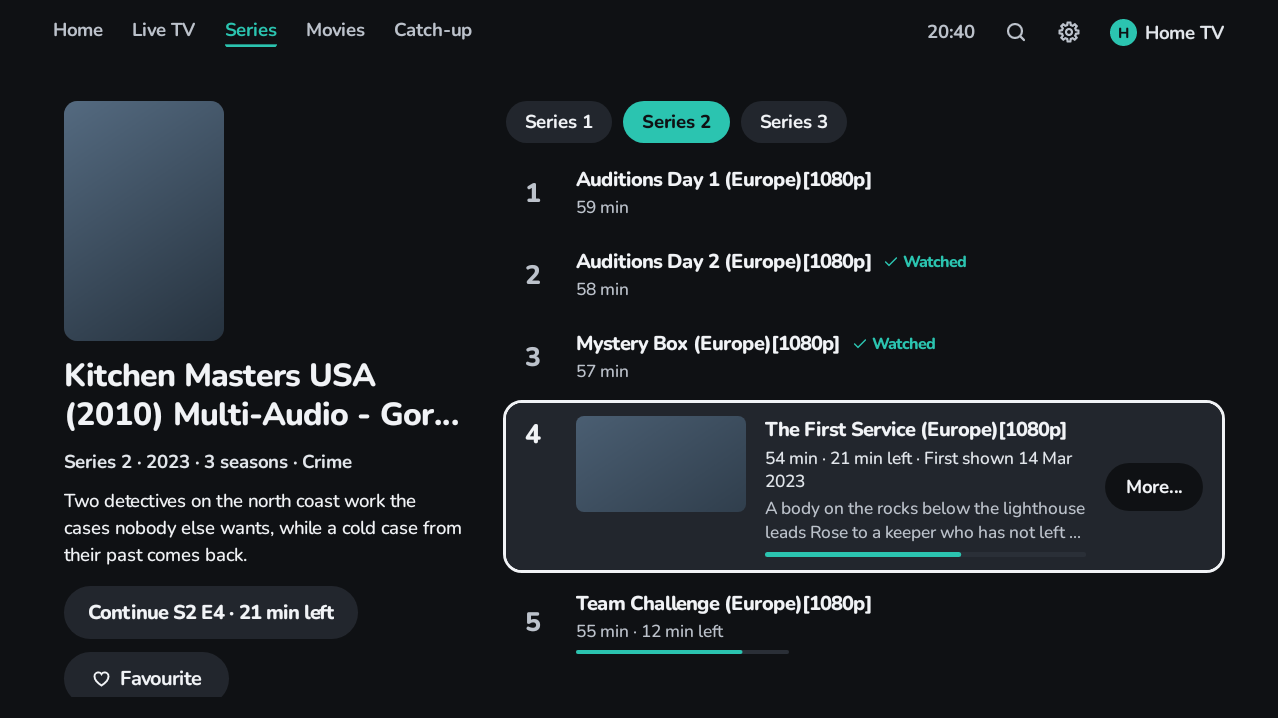
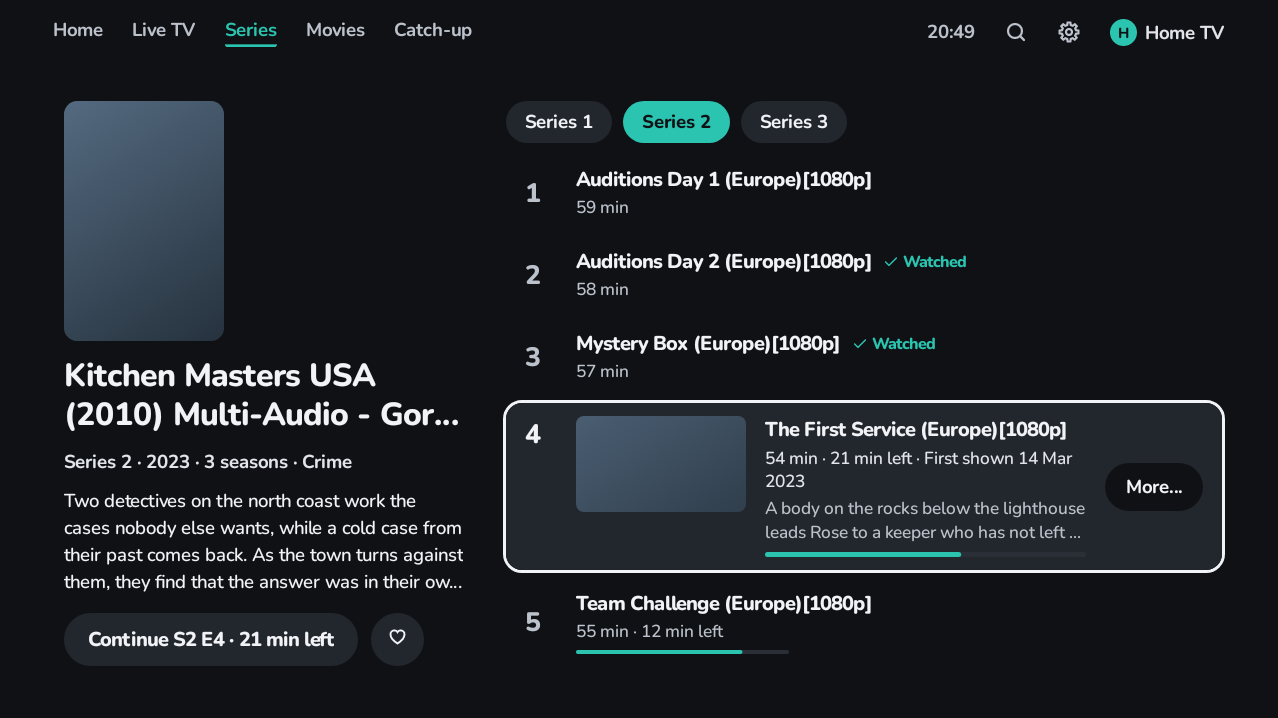
Redesign: the series page's heart sits beside Continue
With a 3 or 4 line plot, Favourite under Continue went past the bottom
of the screen. It is now an icon-only round button beside Continue, as
high as it, so the left column fits the screen. Its screen-reader text
says "Add to favourites" or "Remove from favourites".

The series screenshot test uses a plot of 4 lines and checks that the
heart is beside Continue, as high as it, and inside the screen.

Claude-Session: https://claude.ai/code/session_01XanGeKN99Wd1hmQc73eoBg

Changed region(s): [[0.0305, 0.766, 0.3662, 0.9805]]

diff --git a/app/src/main/java/com/biskyt/mytvplayer/ui/vod/SeriesDetailsScreen.kt b/app/src/main/java/com/biskyt/mytvplayer/ui/vod/SeriesDetailsScreen.kt
@@ -5,10 +5,13 @@ import androidx.compose.foundation.layout.Arrangement
 import androidx.compose.foundation.layout.Box
 import androidx.compose.foundation.layout.Column
 import androidx.compose.foundation.layout.ColumnScope
+import androidx.compose.foundation.layout.IntrinsicSize
 import androidx.compose.foundation.layout.PaddingValues
 import androidx.compose.foundation.layout.Row
+import androidx.compose.foundation.layout.fillMaxHeight
 import androidx.compose.foundation.layout.fillMaxSize
 import androidx.compose.foundation.layout.fillMaxWidth
+import androidx.compose.foundation.layout.height
 import androidx.compose.foundation.layout.padding
 import androidx.compose.foundation.layout.size
 import androidx.compose.foundation.layout.width
@@ -208,20 +211,22 @@ fun SeriesDetailsScreen(screen: Screen.SeriesDetails) {
         ) {
             val favourite by vm.favourite.collectAsState()
             SeriesColumn(show, d, season) {
-                if (next != null) {
-                    ContinueButton(
-                        next,
-                        progress,
-                        play,
-                        if (target == null || !vm.focusEpisodePending) playFocus(vm, next.id) else Modifier
+                // Continue, and the favourite's heart beside it at the same height, so the column fits the screen.
+                Row(Modifier.height(IntrinsicSize.Min), horizontalArrangement = Arrangement.spacedBy(10.bd)) {
+                    if (next != null) {
+                        ContinueButton(
+                            next,
+                            progress,
+                            play,
+                            if (target == null || !vm.focusEpisodePending) playFocus(vm, next.id) else Modifier
+                        )
+                    }
+                    FavouriteButton(
+                        favourite,
+                        { vm.toggleFavourite() },
+                        (if (next == null && d != null) rememberFirstFocus() else Modifier).fillMaxHeight()
                     )
                 }
-                FavouriteButton(
-                    favourite,
-                    { vm.toggleFavourite() },
-                    if (next == null && d != null) rememberFirstFocus() else Modifier,
-                    text = stringResource(R.string.common_favourite_mark)
-                )
             }
             Column(Modifier.weight(1f), verticalArrangement = Arrangement.spacedBy(8.bd)) {
                 when {
@@ -246,8 +251,8 @@ fun SeriesDetailsScreen(screen: Screen.SeriesDetails) {
 
 /**
  * The series page's left column (board "TvSeries"), 300 wide: the poster, the title, the facts ([season]'s name, its
- * year if known, else the show's, the number of seasons...), the plot, and [buttons] one under the other (Continue,
- * then Favourite). [extraFacts] is where MyPlexPlayer adds its own.
+ * year if known, else the show's, the number of seasons...), the plot (4 lines at most), and [buttons] (Continue and
+ * the favourite's heart). [extraFacts] is where MyPlexPlayer adds its own.
  */
 @Composable
 fun SeriesColumn(

diff --git a/app/src/test/java/com/biskyt/mytvplayer/ui/DetailPagesScreenshotTest.kt b/app/src/test/java/com/biskyt/mytvplayer/ui/DetailPagesScreenshotTest.kt
@@ -14,6 +14,7 @@ import androidx.compose.ui.semantics.SemanticsActions
 import androidx.compose.ui.test.assertIsDisplayed
 import androidx.compose.ui.test.getBoundsInRoot
 import androidx.compose.ui.test.hasClickAction
+import androidx.compose.ui.test.hasContentDescription
 import androidx.compose.ui.test.hasText
 import androidx.compose.ui.test.onRoot
 import androidx.compose.ui.test.performSemanticsAction
@@ -148,6 +149,16 @@ class DetailPagesScreenshotTest {
         compose.waitForText("More…")
         compose.waitForText("54 min · 21 min left · First shown 14 Mar 2023")
         assertTrue(compose.focusedText(), compose.focusedText().contains("The First Service"))
+        // With a 4-line plot, the favourite's heart is beside Continue, as high as it, and inside the screen. In pixels
+        // (MyTvTheme gives the page its own density), from each node's position: boundsInRoot is clipped by its parents.
+        val screen = compose.onRoot().fetchSemanticsNode().size.height
+        val resume = compose.onNode(hasText("Continue", substring = true) and hasClickAction()).fetchSemanticsNode()
+        val heart = compose.onNode(hasContentDescription("Add to favourites") and hasClickAction()).fetchSemanticsNode()
+        assertEquals(resume.positionInRoot.y, heart.positionInRoot.y, 1f)
+        assertEquals(resume.size.height, heart.size.height)
+        assertTrue(heart.positionInRoot.x > resume.positionInRoot.x + resume.size.width)
+        val bottom = heart.positionInRoot.y + heart.size.height
+        assertTrue("The heart ends at $bottom px, the screen at $screen px", bottom <= screen)
         compose.onRoot().captureRoboImage(file)
     }
 
@@ -186,7 +197,7 @@ class DetailPagesScreenshotTest {
             return """{"seasons":[{"season_number":1,"name":"Series 1"},{"season_number":2,"name":"Series 2"},
                {"season_number":3,"name":"Series 3"}],
                "info":{"name":"EN: Kitchen Masters USA (2010)",
-               "plot":"Two detectives on the north coast work the cases nobody else wants, while a cold case from their past comes back.",
+               "plot":"Two detectives on the north coast work the cases nobody else wants, while a cold case from their past comes back. As the town turns against them, they find that the answer was in their own files all along, and the storm season gives them one week to prove it.",
                "genre":"Crime","releaseDate":"2023-01-01"},
                "episodes":{"1":[{"id":"9101","episode_num":1,"title":"Pilot","container_extension":"mkv","season":1,"info":{}}],
                            "2":[$episodes],

diff --git a/app/src/main/java/com/biskyt/mytvplayer/ui/vod/DetailsParts.kt b/app/src/main/java/com/biskyt/mytvplayer/ui/vod/DetailsParts.kt
@@ -120,7 +120,10 @@ private fun PillSurface(
         focusedContentColor = focusedContent
     ),
     border = if (ring) ClickableSurfaceDefaults.border(focusedBorder = Border(FocusStroke)) else ClickableSurfaceDefaults.border()
-) { Box { body() } }
+) {
+    // Centred: an icon-only button stretched to its neighbour's height keeps its icon in the middle.
+    Box(contentAlignment = Alignment.Center) { body() }
+}
 
 /**
  * How far into the film: a 4 px bar along the bottom of its button, in the page's background at 45 %. It takes the

diff --git a/CHANGELOG.md b/CHANGELOG.md
@@ -8,7 +8,7 @@ English, one bullet of one sentence per change.
 - Watched episodes have a tick, and part-watched ones show the time left with a short bar.
 - The top bar is simpler: the tabs are text, with the one you are on underlined, and the icons have no circles.
 - A page with almost no details (an M3U film) shows its category, with no empty gaps.
-- A series page starts its details with the season you are looking at and that season's year, and has its Favourite button under Continue.
+- A series page starts its details with the season you are looking at and that season's year, and has a heart for Favourite beside Continue.
 - Settings › large text now makes the text on the new film and series pages and in the top bar larger too.
 
 ## 1.12.1
